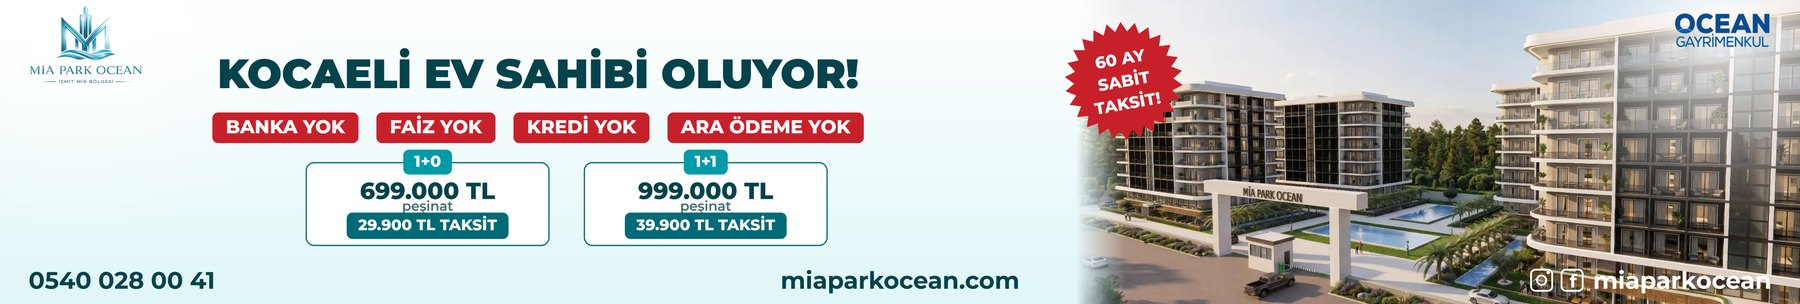
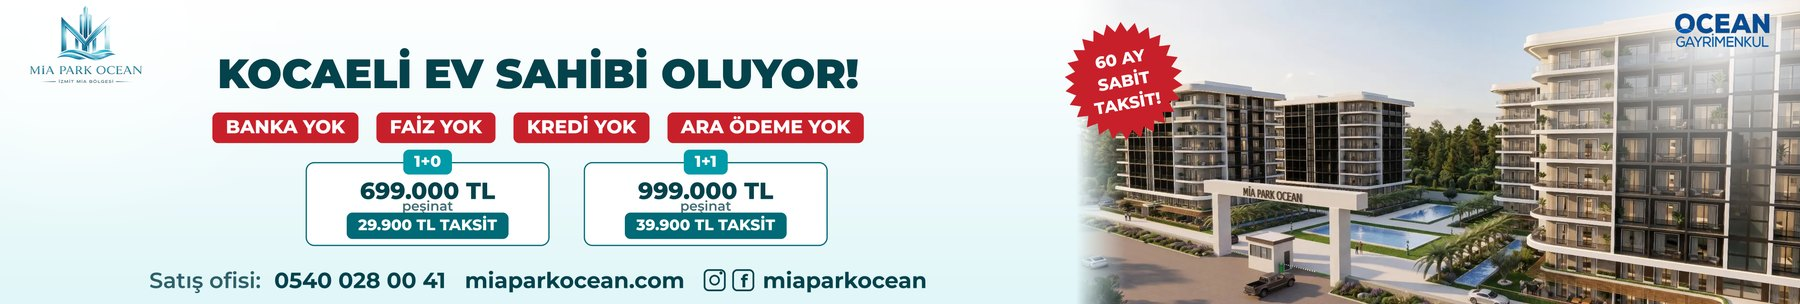
Turkuaz-01: iletişim tek satırda ortalı — Satış ofisi: numara · web · sosyal
- Sosyal ikonlar sağ kenardan alınıp webin yanına eklendi; satır metin
  bölgesinde ortalı, fotoğrafa/binaya taşmıyor; tümü petrol renkte

Claude-Session: https://claude.ai/code/session_014vbWeo5uAXPs6zFw9SmWv2

Changed region(s): [[0.0, 0.8882, 0.5911, 0.977], [0.84, 0.8882, 0.9956, 0.977]]

diff --git a/scripts/build-bilbord-16m-turkuaz.py b/scripts/build-bilbord-16m-turkuaz.py
@@ -236,29 +236,37 @@ def t01():
     dr = ImageDraw.Draw(im)
     govde_a(im, dr, x0 / 2, "KOCAELİ EV SAHİBİ OLUYOR!", 430)
     yildiz(im, x0 + 500, 850, 620, ["60 AY", "SABİT", "TAKSİT!"], don=10)
-    # Alt bant yok: iletişim satırı bantsız, büyük ve biraz yukarıda.
+    # Alt bant yok: iletişim TEK satırda, metin bölgesinde ortalı —
+    # "Satış ofisi: numara · web · sosyal" (fotoğrafa/binaya taşmaz).
     dr = ImageDraw.Draw(im)
-    f = mont("Bold", 250)
     cy = H - 250
-    dr.text((PAD, cy), TEL, font=f, fill=PETROL, anchor="lm")
-    dr.text((W / 2, cy), SITE, font=f, fill=PETROL, anchor="mm")
-    t = "miaparkocean"
-    tw = dr.textlength(t, font=f)
-    tx = W - PAD - tw
-    dr.text((tx, cy), t, font=f, fill=BEYAZ, anchor="lm")
-    ik, kal = 240, 19
-    fx = tx - 100 - ik
-    ix = fx - 80 - ik
-    dr.rounded_rectangle([ix, cy - ik / 2, ix + ik, cy + ik / 2], radius=55,
-                         outline=BEYAZ, width=kal)
-    dr.ellipse([ix + ik * 0.26, cy - ik * 0.24, ix + ik * 0.74, cy + ik * 0.24],
-               outline=BEYAZ, width=kal)
-    dr.ellipse([ix + ik * 0.72, cy - ik * 0.40, ix + ik * 0.86, cy - ik * 0.26],
-               fill=BEYAZ)
-    dr.rounded_rectangle([fx, cy - ik / 2, fx + ik, cy + ik / 2], radius=55,
-                         outline=BEYAZ, width=kal)
-    dr.text((fx + ik * 0.55, cy + 8), "f", font=mont("Bold", 196), fill=BEYAZ,
+    fe, f = mont("SemiBold", 230), mont("Bold", 230)
+    ik, kal = 230, 18
+    ayrac = 200
+    parcalar = [("Satış ofisi:", fe), (TEL, f), (SITE, f)]
+    genlik = [dr.textlength(t, font=ft) for t, ft in parcalar]
+    ikonlar = ik * 2 + 70 + 90 + dr.textlength("miaparkocean", font=f)
+    toplam = genlik[0] + 140 + genlik[1] + ayrac + genlik[2] + ayrac + ikonlar
+    x = x0 / 2 - toplam / 2
+    dr.text((x, cy), "Satış ofisi:", font=fe, fill=(46, 96, 106), anchor="lm")
+    x += genlik[0] + 140
+    dr.text((x, cy), TEL, font=f, fill=PETROL, anchor="lm")
+    x += genlik[1] + ayrac
+    dr.text((x, cy), SITE, font=f, fill=PETROL, anchor="lm")
+    x += genlik[2] + ayrac
+    dr.rounded_rectangle([x, cy - ik / 2, x + ik, cy + ik / 2], radius=52,
+                         outline=PETROL, width=kal)
+    dr.ellipse([x + ik * 0.26, cy - ik * 0.24, x + ik * 0.74, cy + ik * 0.24],
+               outline=PETROL, width=kal)
+    dr.ellipse([x + ik * 0.72, cy - ik * 0.40, x + ik * 0.86, cy - ik * 0.26],
+               fill=PETROL)
+    x += ik + 70
+    dr.rounded_rectangle([x, cy - ik / 2, x + ik, cy + ik / 2], radius=52,
+                         outline=PETROL, width=kal)
+    dr.text((x + ik * 0.55, cy + 8), "f", font=mont("Bold", 188), fill=PETROL,
             anchor="mm")
+    x += ik + 90
+    dr.text((x, cy), "miaparkocean", font=f, fill=PETROL, anchor="lm")
     kaydet("turkuaz-01-kocaeli", im)
 
 
